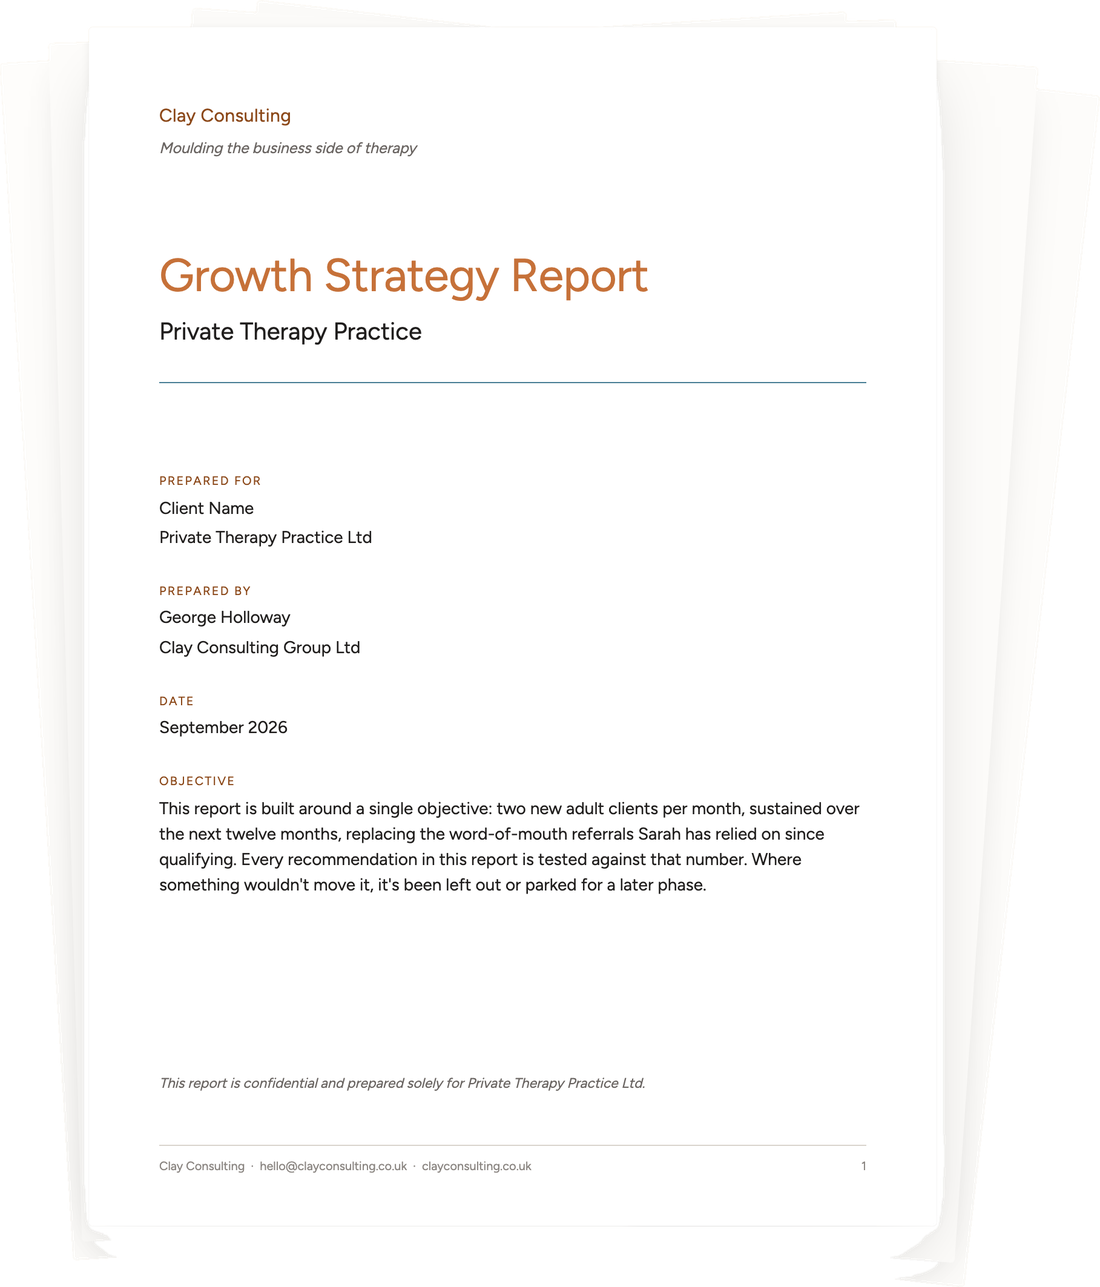
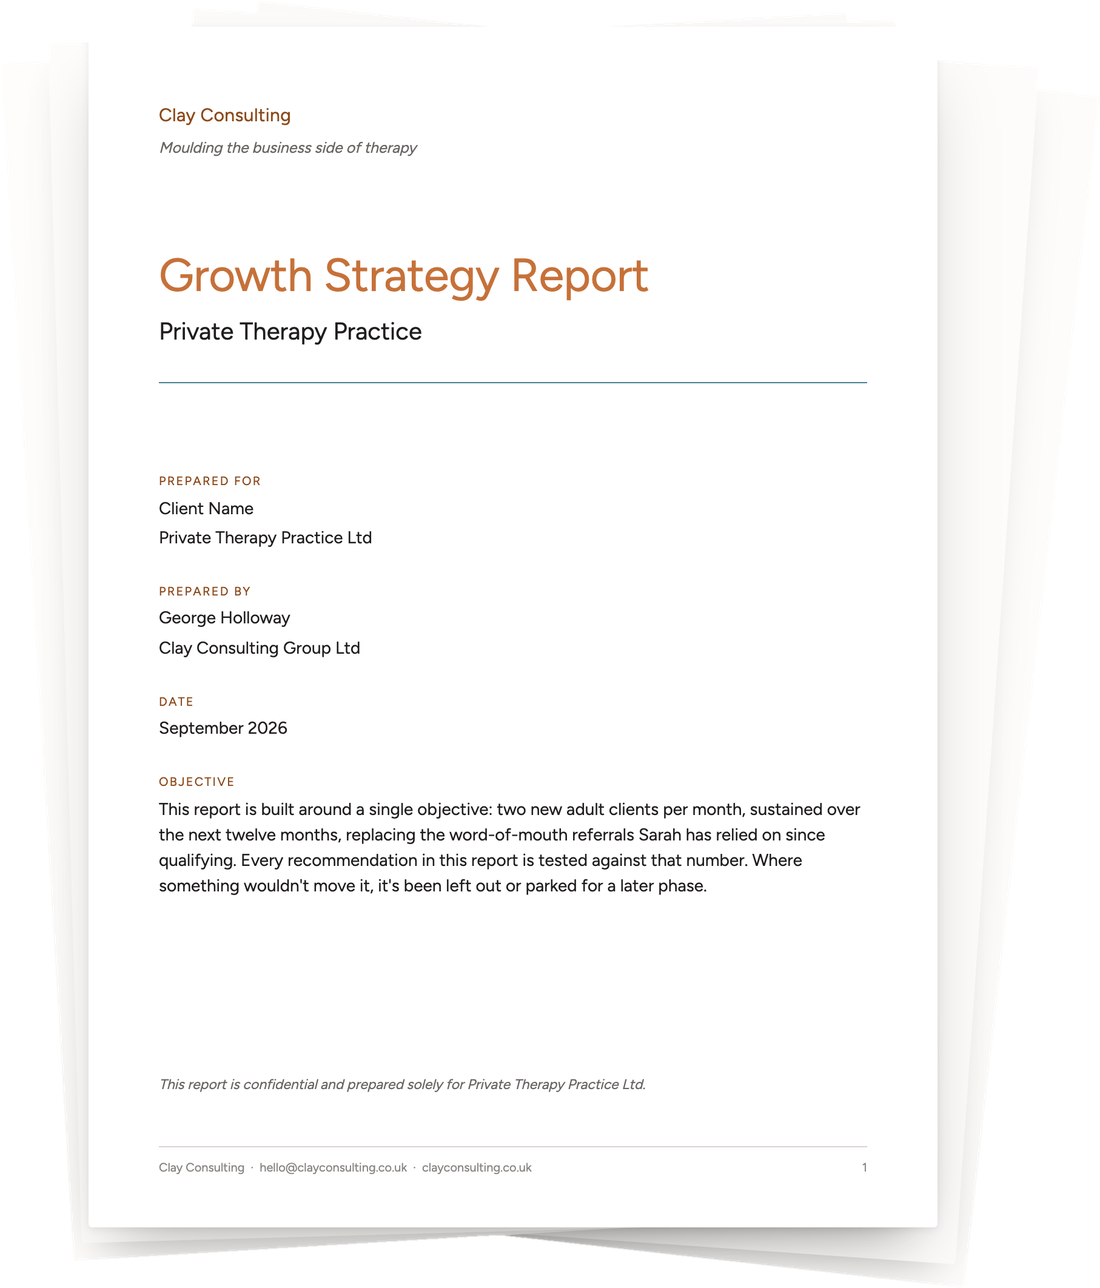
Growth Strategy hero: fix sheet edges, pill level with buttons, image higher and closer
Re-cut the report sheets so the grey shadowed bottom edges stay white
instead of turning transparent. The price pill now matches the buttons'
height and sits level with them; the image above it rises above the
eyebrow line and sits next to the text. styles.css v=79.

diff --git a/styles.css b/styles.css
@@ -559,26 +559,30 @@ details[open] .chev{transform:rotate(-135deg)}
 .gc-stats{list-style:none;margin:0;padding:0;display:flex;flex-direction:column;gap:.75rem;width:100%;max-width:360px;justify-self:end}
 .gc-stats li{display:flex;align-items:center;gap:1rem;background:var(--sage-ink);border-radius:var(--radius-pill);padding:.875rem 1.375rem;font-size:.9375rem;line-height:1.35;color:var(--sage-mist)}
 .gc-stats__num{flex:none;min-width:4.25rem;font-family:var(--display);font-variation-settings:var(--display-vf);font-weight:600;font-size:1.875rem;line-height:1;color:var(--peach)}
-/* Strategy: the report image is as big as the text column allows, sized from its container so it
-   never changes the hero's height (which keeps the three heroes matched). It may extend into the
-   column gap. The price pill sits underneath, the same width as the image, on one line; the image
-   gives up the pill's height (--gc-pill-h plus the gap) to make room. */
-.gc-hero__media{--gc-pill-h:2.875rem;position:relative;align-self:stretch;justify-self:stretch;min-width:0;container-type:size}
-.gc-hero__report{position:absolute;top:0;bottom:0;right:0;margin:0;display:flex;flex-direction:column;justify-content:center;gap:.75rem}
-.gc-hero__report img{display:block;width:auto;height:auto;max-height:calc(100cqh - var(--gc-pill-h) - .75rem);max-width:min(440px,calc(100cqw + 3rem));filter:drop-shadow(0 1.25rem 1.75rem rgba(0,0,0,.3))}
+/* Strategy: the price pill is the same height as the hero buttons and level with them (it sits at
+   the bottom of the column, as the buttons sit at the bottom of the text column). The report image
+   sits above it, the pill's width, rising --gc-lift above the eyebrow line into the hero's top
+   padding, and the pair is nudged left towards the text. Sized from the container (size queries),
+   so it never changes the hero's height and the three heroes stay matched. */
+/* Strategy only: cap the text column so the image sits next to the text on wide screens. */
+.gc-hero__grid--snug{grid-template-columns:minmax(0,46rem) minmax(260px,360px);justify-content:start}
+.gc-hero__media{--gc-pill-h:3.5625rem;--gc-lift:4rem;position:relative;align-self:stretch;justify-self:stretch;min-width:0;container-type:size}
+.gc-hero__report{position:absolute;bottom:0;left:-1.5rem;margin:0;display:flex;flex-direction:column;gap:1rem}
+.gc-hero__report img{display:block;width:auto;height:auto;max-height:calc(100cqh + var(--gc-lift) - var(--gc-pill-h) - 1rem);max-width:min(460px,calc(100cqw + 4.5rem));filter:drop-shadow(0 1.25rem 1.75rem rgba(0,0,0,.3))}
 .gc-hero__price{width:0;min-width:100%;max-width:none}
-.gc-hero__price li{height:var(--gc-pill-h);justify-content:center;gap:.625rem;padding:0 1rem;white-space:nowrap;font-size:.8125rem}
-.gc-hero__price .gc-stats__num{min-width:0;font-size:1.375rem}
+.gc-hero__price li{height:var(--gc-pill-h);justify-content:center;gap:.75rem;padding:0 1.25rem;white-space:nowrap;font-size:.875rem}
+.gc-hero__price .gc-stats__num{min-width:0;font-size:1.5rem}
 /* Same text-column height on all three pages at each width, so the buttons line up. The tiers
    follow where titles and button rows wrap; re-measure if a hero title or button label changes. */
 @media (min-width:861px){.gc-hero__copy{min-height:37.5rem}}
 @media (min-width:1260px){.gc-hero__copy{min-height:31rem}}
 @media (min-width:1340px){.gc-hero__copy{min-height:29rem}}
 @media (max-width:860px){
-  .gc-hero__grid{grid-template-columns:minmax(0,1fr)}
+  .gc-hero__grid,.gc-hero__grid--snug{grid-template-columns:minmax(0,1fr)}
   .gc-stats,.gc-hero__media{justify-self:start}
   .gc-hero__media{container-type:normal}
-  .gc-hero__report{position:relative;max-width:420px}
+  .gc-hero__report{position:relative;left:0;max-width:420px}
+  .gc-hero__price li{height:auto;white-space:normal;justify-content:flex-start;padding:.875rem 1.375rem}
   .gc-hero__report img{width:100%;max-width:100%;max-height:none}
 }
 

diff --git a/growth-strategy.html b/growth-strategy.html
@@ -131,7 +131,7 @@
 }
 </script>
 
-<link rel="stylesheet" href="/styles.css?v=78">
+<link rel="stylesheet" href="/styles.css?v=79">
 </head>
 <body>
 
@@ -171,7 +171,7 @@
   <section class="gp-hero gc-hero">
     <span class="gc-hero__circle gc-hero__circle--sage" aria-hidden="true"></span>
     <span class="gc-hero__circle gc-hero__circle--accent" aria-hidden="true"></span>
-    <div class="shell gc-hero__grid">
+    <div class="shell gc-hero__grid gc-hero__grid--snug">
       <div class="gc-hero__copy">
         <p class="gc-hero__tag">Growth Strategy</p>
         <h1>Your practice, reviewed properly, with a plan you can act on</h1>

diff --git a/404.html b/404.html
@@ -53,7 +53,7 @@
 <link rel="preconnect" href="https://fonts.googleapis.com">
 <link rel="preconnect" href="https://fonts.gstatic.com" crossorigin>
 <link href="https://fonts.googleapis.com/css2?family=Fraunces:opsz,wght,SOFT,WONK@9..144,300..700,0..100,0..1&family=Figtree:wght@400;500;600;700&display=swap" rel="stylesheet">
-<link rel="stylesheet" href="/styles.css?v=78">
+<link rel="stylesheet" href="/styles.css?v=79">
 </head>
 <body>
 

diff --git a/privacy.html b/privacy.html
@@ -54,7 +54,7 @@
 <link rel="preconnect" href="https://fonts.googleapis.com">
 <link rel="preconnect" href="https://fonts.gstatic.com" crossorigin>
 <link href="https://fonts.googleapis.com/css2?family=Fraunces:opsz,wght,SOFT,WONK@9..144,300..700,0..100,0..1&family=Figtree:wght@400;500;600;700&display=swap" rel="stylesheet">
-<link rel="stylesheet" href="/styles.css?v=78">
+<link rel="stylesheet" href="/styles.css?v=79">
 </head>
 <body>
 

diff --git a/approach.html b/approach.html
@@ -65,7 +65,7 @@
 <link rel="preconnect" href="https://fonts.gstatic.com" crossorigin>
 <link href="https://fonts.googleapis.com/css2?family=Fraunces:opsz,wght,SOFT,WONK@9..144,300..700,0..100,0..1&family=Figtree:wght@400;500;600;700&display=swap" rel="stylesheet">
 
-<link rel="stylesheet" href="/styles.css?v=78">
+<link rel="stylesheet" href="/styles.css?v=79">
 </head>
 <body>
 

diff --git a/build.html b/build.html
@@ -75,7 +75,7 @@
 <link rel="preconnect" href="https://fonts.gstatic.com" crossorigin>
 <link href="https://fonts.googleapis.com/css2?family=Fraunces:opsz,wght,SOFT,WONK@9..144,300..700,0..100,0..1&family=Figtree:wght@400;500;600;700&display=swap" rel="stylesheet">
 
-<link rel="stylesheet" href="/styles.css?v=78">
+<link rel="stylesheet" href="/styles.css?v=79">
 </head>
 <body>
 

diff --git a/contact.html b/contact.html
@@ -65,7 +65,7 @@
 <link rel="preconnect" href="https://fonts.gstatic.com" crossorigin>
 <link href="https://fonts.googleapis.com/css2?family=Fraunces:opsz,wght,SOFT,WONK@9..144,300..700,0..100,0..1&family=Figtree:wght@400;500;600;700&display=swap" rel="stylesheet">
 
-<link rel="stylesheet" href="/styles.css?v=78">
+<link rel="stylesheet" href="/styles.css?v=79">
 </head>
 <body>
 

diff --git a/drafts/launch-onboarding-form.html b/drafts/launch-onboarding-form.html
@@ -58,7 +58,7 @@
 <link rel="preconnect" href="https://fonts.gstatic.com" crossorigin>
 <link href="https://fonts.googleapis.com/css2?family=Fraunces:opsz,wght,SOFT,WONK@9..144,300..700,0..100,0..1&family=Figtree:wght@400;500;600;700&display=swap" rel="stylesheet">
 
-<link rel="stylesheet" href="/styles.css?v=78">
+<link rel="stylesheet" href="/styles.css?v=79">
 </head>
 <body>
 

diff --git a/resources.html b/resources.html
@@ -65,7 +65,7 @@
 <link rel="preconnect" href="https://fonts.gstatic.com" crossorigin>
 <link href="https://fonts.googleapis.com/css2?family=Fraunces:opsz,wght,SOFT,WONK@9..144,300..700,0..100,0..1&family=Figtree:wght@400;500;600;700&display=swap" rel="stylesheet">
 
-<link rel="stylesheet" href="/styles.css?v=78">
+<link rel="stylesheet" href="/styles.css?v=79">
 </head>
 <body>
 

diff --git a/resources/gdpr-for-therapists.html b/resources/gdpr-for-therapists.html
@@ -65,7 +65,7 @@
 <link rel="preconnect" href="https://fonts.gstatic.com" crossorigin>
 <link href="https://fonts.googleapis.com/css2?family=Fraunces:opsz,wght,SOFT,WONK@9..144,300..700,0..100,0..1&family=Figtree:wght@400;500;600;700&display=swap" rel="stylesheet">
 
-<link rel="stylesheet" href="/styles.css?v=78">
+<link rel="stylesheet" href="/styles.css?v=79">
 </head>
 <body>
 

diff --git a/resources/how-clients-find-a-therapist-online.html b/resources/how-clients-find-a-therapist-online.html
@@ -65,7 +65,7 @@
 <link rel="preconnect" href="https://fonts.gstatic.com" crossorigin>
 <link href="https://fonts.googleapis.com/css2?family=Fraunces:opsz,wght,SOFT,WONK@9..144,300..700,0..100,0..1&family=Figtree:wght@400;500;600;700&display=swap" rel="stylesheet">
 
-<link rel="stylesheet" href="/styles.css?v=78">
+<link rel="stylesheet" href="/styles.css?v=79">
 </head>
 <body>
 

diff --git a/resources/local-seo-for-therapists.html b/resources/local-seo-for-therapists.html
@@ -65,7 +65,7 @@
 <link rel="preconnect" href="https://fonts.gstatic.com" crossorigin>
 <link href="https://fonts.googleapis.com/css2?family=Fraunces:opsz,wght,SOFT,WONK@9..144,300..700,0..100,0..1&family=Figtree:wght@400;500;600;700&display=swap" rel="stylesheet">
 
-<link rel="stylesheet" href="/styles.css?v=78">
+<link rel="stylesheet" href="/styles.css?v=79">
 </head>
 <body>
 
